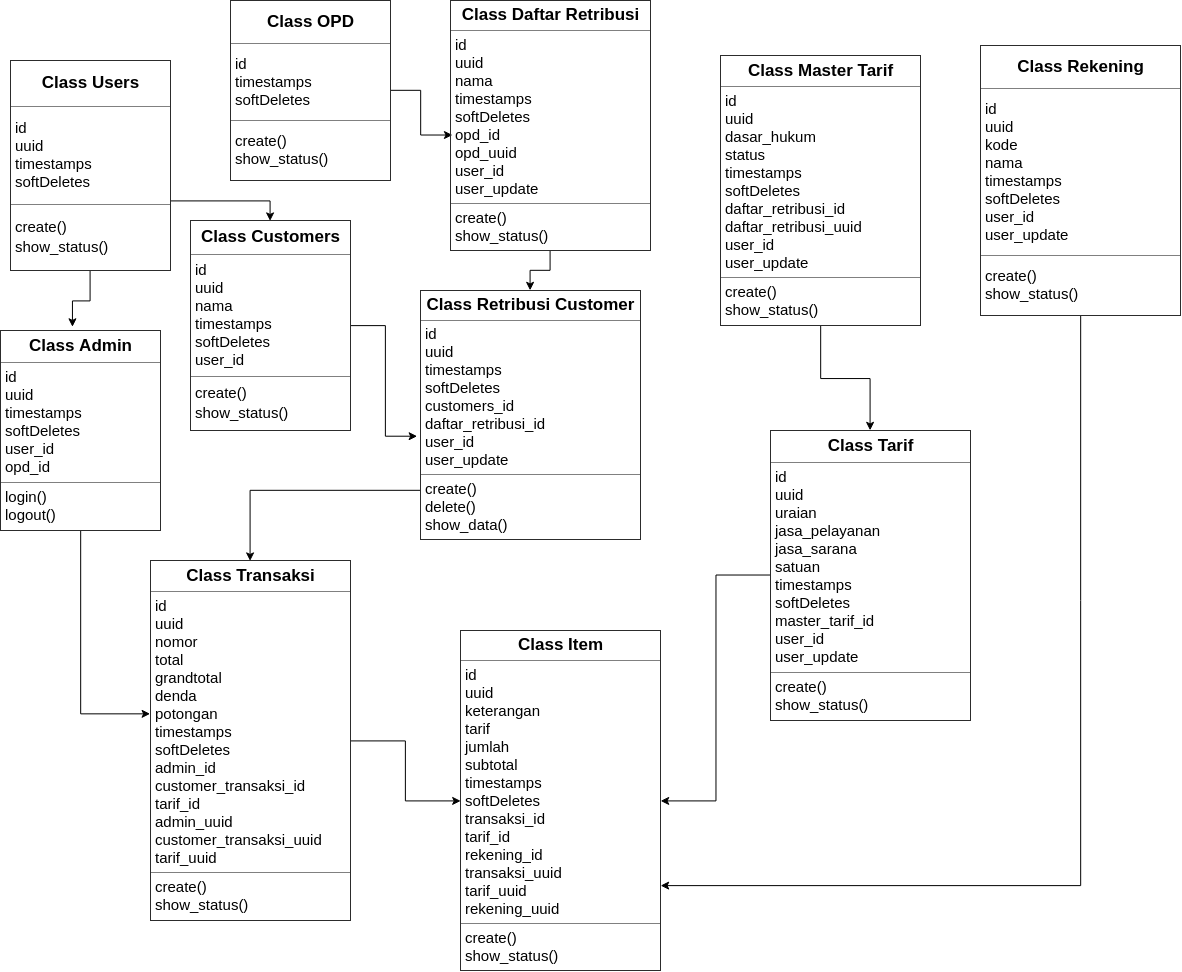
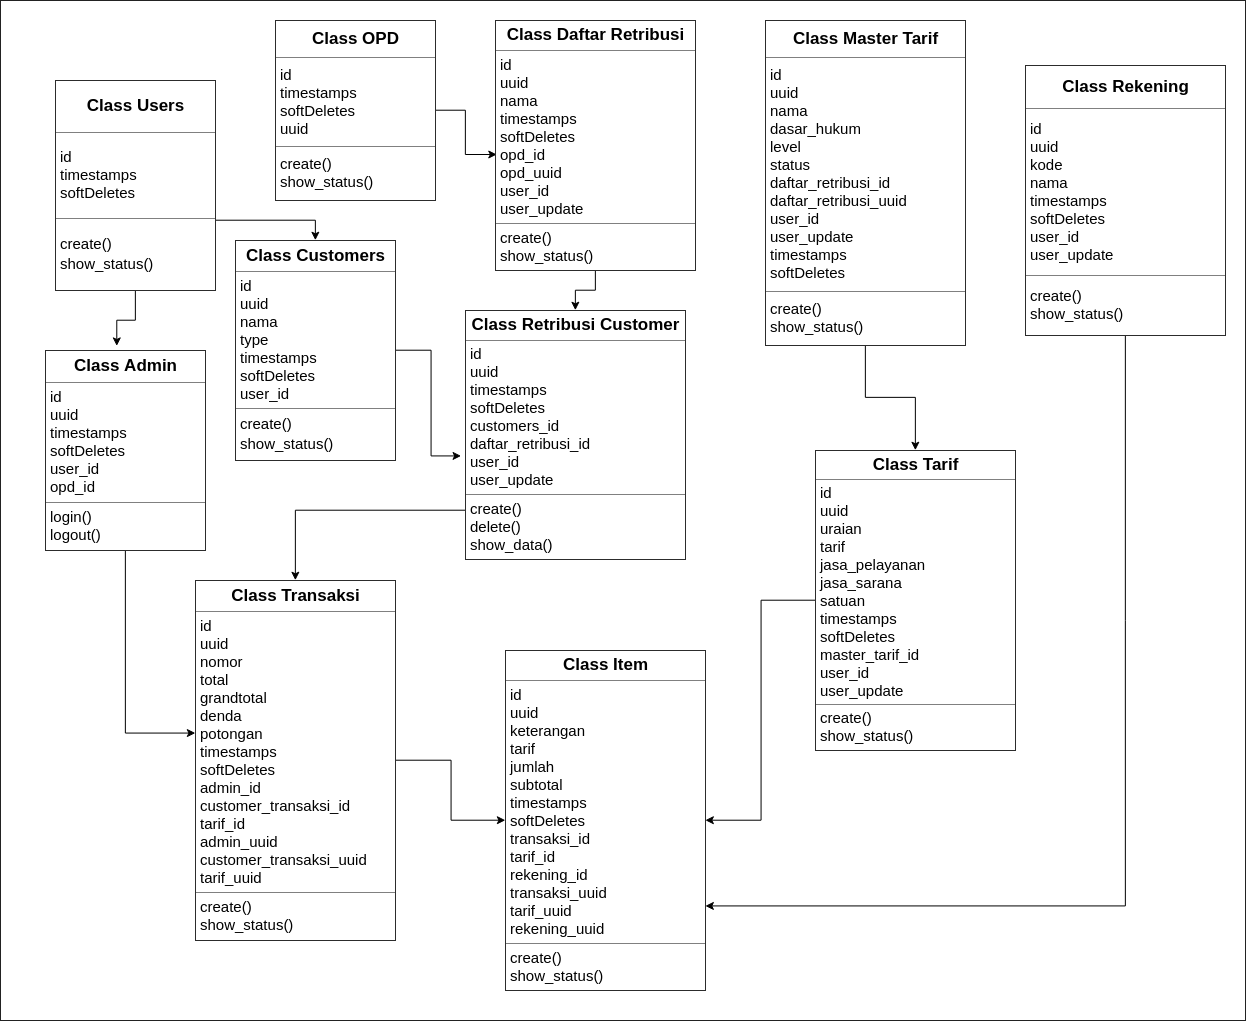
update

diff --git a/_posts/retribusi-online/2018-05-13-perancangan-database.md b/_posts/retribusi-online/2018-05-13-perancangan-database.md
@@ -20,6 +20,7 @@ Adalah tabel yang menampung daftar Organisasi Perangkat Daerah yang ada di lingk
 1. id: Merupakan **id** dari data opd.
 2. timestamps: Merupakan tanggal di buatnya data.
 3. softDeletes: Merupakan tanggal di hapusnya data. (Field ini akan terisi hanya jika data dihapus)
+4. uuid: Merupakan **id** dari data opd yang berjenis string dan unique.
 
 ## Tabel Daftar Retribusi
 
@@ -41,15 +42,16 @@ Adalah tabel yang menampung data master dari Tarif Retribusi Perangkat Daerah ya
 
 1. id: Merupakan **id** dari data master tarif.
 2. uuid: Merupakan **id** dari data master tarif yang berjenis string dan unique.
-3. dasar_hukum: Merupakan data dasar hukum dari tarif retribusi.
-4. status: Merupakan data status dari tarif retribusi.
-5. timestamps: Merupakan tanggal di buatnya data.
-6. softDeletes: Merupakan tanggal di hapusnya data. (Field ini akan terisi hanya jika data dihapus)
+3. nama: Merupakan nama dari data Master Tarif.
+4. dasar_hukum: Merupakan data dasar hukum dari tarif retribusi.
+5. level: Merupakan nama dari data level master tarif.
+6. status: Merupakan data status dari tarif retribusi.
 7. daftar_retribusi_id: Merupakan **id** dari data daftar retribusi.
 8. daftar_retribusi_uuid: Merupakan **id** dari data daftar retribusi yang berjenis string dan unique.
 9. user_id: Merupakan **id** dari data user.
 10. user_update: Merupakan data yang di update oleh user.
- 
+11. timestamps: Merupakan tanggal di buatnya data.
+12. softDeletes: Merupakan tanggal di hapusnya data. (Field ini akan terisi hanya jika data dihapus)
 
 ## Tabel Tarif
 
@@ -58,14 +60,15 @@ Adalah tabel yang menampung daftar Tarif Retribusi Perangkat Daerah yang ada di 
 1. id: Merupakan **id** dari data tarif.
 2. uuid: Merupakan **id** dari data tarif yang berjenis string dan unique.
 3. uraian: Merupakan nama dari data uraian tarif.
-4. jasa_pelayanan: Merupakan nama dari data tarif jasa pelayanan.
-5. jasa_sarana: Merupakan nama dari data tarif jasa sarana.
-6. satuan: Merupakan nama dari data tarif jasa satuan.
-7. timestamps: Merupakan tanggal di buatnya data.
-8. softDeletes: Merupakan tanggal di hapusnya data. (Field ini akan terisi hanya jika data dihapus)
-9. master_tarif_id: Merupakan **id** dari data Master tarif.
-10. user_id: Merupakan **id** dari data user.
-11. user_update: Merupakan data yang di update oleh user.
+4. tarif: Merupakan nama data dari besaram tarif.
+5. jasa_pelayanan: Merupakan nama dari data tarif jasa pelayanan.
+6. jasa_sarana: Merupakan nama dari data tarif jasa sarana.
+7. satuan: Merupakan nama dari data tarif jasa satuan.
+8. timestamps: Merupakan tanggal di buatnya data.
+9. softDeletes: Merupakan tanggal di hapusnya data. (Field ini akan terisi hanya jika data dihapus)
+10. master_tarif_id: Merupakan **id** dari data Master tarif.
+11. user_id: Merupakan **id** dari data user.
+12. user_update: Merupakan data yang di update oleh user.
 
 ## Tabel Transaksi
 
@@ -126,9 +129,10 @@ Adalah tabel yang menampung daftar Customer Retribusi Perangkat Daerah yang ada 
 1. id: Merupakan **id** dari data customer.
 2. uuid: Merupakan **id** dari data customer yang berjenis string dan unique.
 3. nama: Merupakan nama dari data nama customer.
-4. timestamps: Merupakan tanggal di buatnya data.
-5. softDeletes: Merupakan tanggal di hapusnya data. (Field ini akan terisi hanya jika data dihapus)
-6. user_id: Merupakan **id** dari data user.
+4. type: Merupakan nama dari data tipe customer.
+5. timestamps: Merupakan tanggal di buatnya data.
+6. softDeletes: Merupakan tanggal di hapusnya data. (Field ini akan terisi hanya jika data dihapus)
+7. user_id: Merupakan **id** dari data user.
  
 
 ## Tabel Retribusi Customer

diff --git a/_posts/retribusi-online/2018-05-13-pendahuluan.md b/_posts/retribusi-online/2018-05-13-pendahuluan.md
@@ -21,66 +21,66 @@ Di Provinsi Banten terdapat beberapa Organisasi Perangkat Daerah penghasil retri
 
 1. Dinas Kesehatan
 
- - Tempat Pelayanan Kesehatan Lainnya (Labkesda)
- - Lab Kalibrasi (Labkesda)
+  - Tempat Pelayanan Kesehatan Lainnya (Labkesda)
+  - Lab Kalibrasi (Labkesda)
 
 2. Dinas Pekerjaan Umum dan Penataan Ruang
 
- - Pemakaian Bahu Jalan
- - Ret. Pengujian Bahan dan Bangunan
- - Ret. Pengujian Air
- - Sepadan Sungai
- - Sewa Alat Berat
+  - Pemakaian Bahu Jalan
+  - Ret. Pengujian Bahan dan Bangunan
+  - Ret. Pengujian Air
+  - Sepadan Sungai
+  - Sewa Alat Berat
 
 3. Dinas Kelautan dan Perikanan
 
- - Laboratorium Komoditi Hasil Perikanan
- - Pelayanan Jasa Kepelabuhan
- - Penjualan Hasil Produksi Usaha Daerah
- - Retribusi Izin Usaha Perikanan kepada Orang Pribadi
+  - Laboratorium Komoditi Hasil Perikanan
+  - Pelayanan Jasa Kepelabuhan
+  - Penjualan Hasil Produksi Usaha Daerah
+  - Retribusi Izin Usaha Perikanan kepada Orang Pribadi
 
 4. Dinas Pertanian
 
- - Kesehatan Hewan dan Masyarakat Veteriner
- - Lab Pakan
- - Penjualan Hasil Produksi Usaha Daerah
+  - Kesehatan Hewan dan Masyarakat Veteriner
+  - Lab Pakan
+  - Penjualan Hasil Produksi Usaha Daerah
 
 5. Badan Penghubung
 
- - Ret. Pemakaian Wisma dan Ruang Rapat
+  - Ret. Pemakaian Wisma dan Ruang Rapat
 
 6. Dinas Perhubungan
 
- - Ret. Izin Trayek
- - Penggunaan Mobil Derek
+  - Ret. Izin Trayek
+  - Penggunaan Mobil Derek
 
 7. Dinas Ketenaga Kerjaan dan Transmigasi
 
- - Ret. Perpanjangan Izin Mempekerjakan Tenaga Kerja Asing (IMTA)
- - Pelayanan Pendidikan BLKI Serpong
+  - Ret. Perpanjangan Izin Mempekerjakan Tenaga Kerja Asing (IMTA)
+  - Pelayanan Pendidikan BLKI Serpong
 
 8. Dinas Perindustrian dan Perdagangan
 
- - Lab Kalibrasi
- - Sewa Aula
+  - Lab Kalibrasi
+  - Sewa Aula
 
 9. Dinas Pendidikan
 
- - Sewa Kantin
+  - Sewa Kantin
 
 10. Dinas Lingkungan Hidup dan Kehutanan
 
- - Lab Lingkungan Hidup
+  - Lab Lingkungan Hidup
 
 11. BAPENDA
 
- - Sewa Tanah
+  - Sewa Tanah
 
 12. Badan Pengembangan Sumber Daya Manusia
 
- - Pelayanan Penyelenggaraan Pendidikan
- - Penyewaan Tanah dan Bangunan
+  - Pelayanan Penyelenggaraan Pendidikan
+  - Penyewaan Tanah dan Bangunan
 
 13. Biro Umum
 
-- Sewa Bus Pemerintah Daerah
+  - Sewa Bus Pemerintah Daerah
